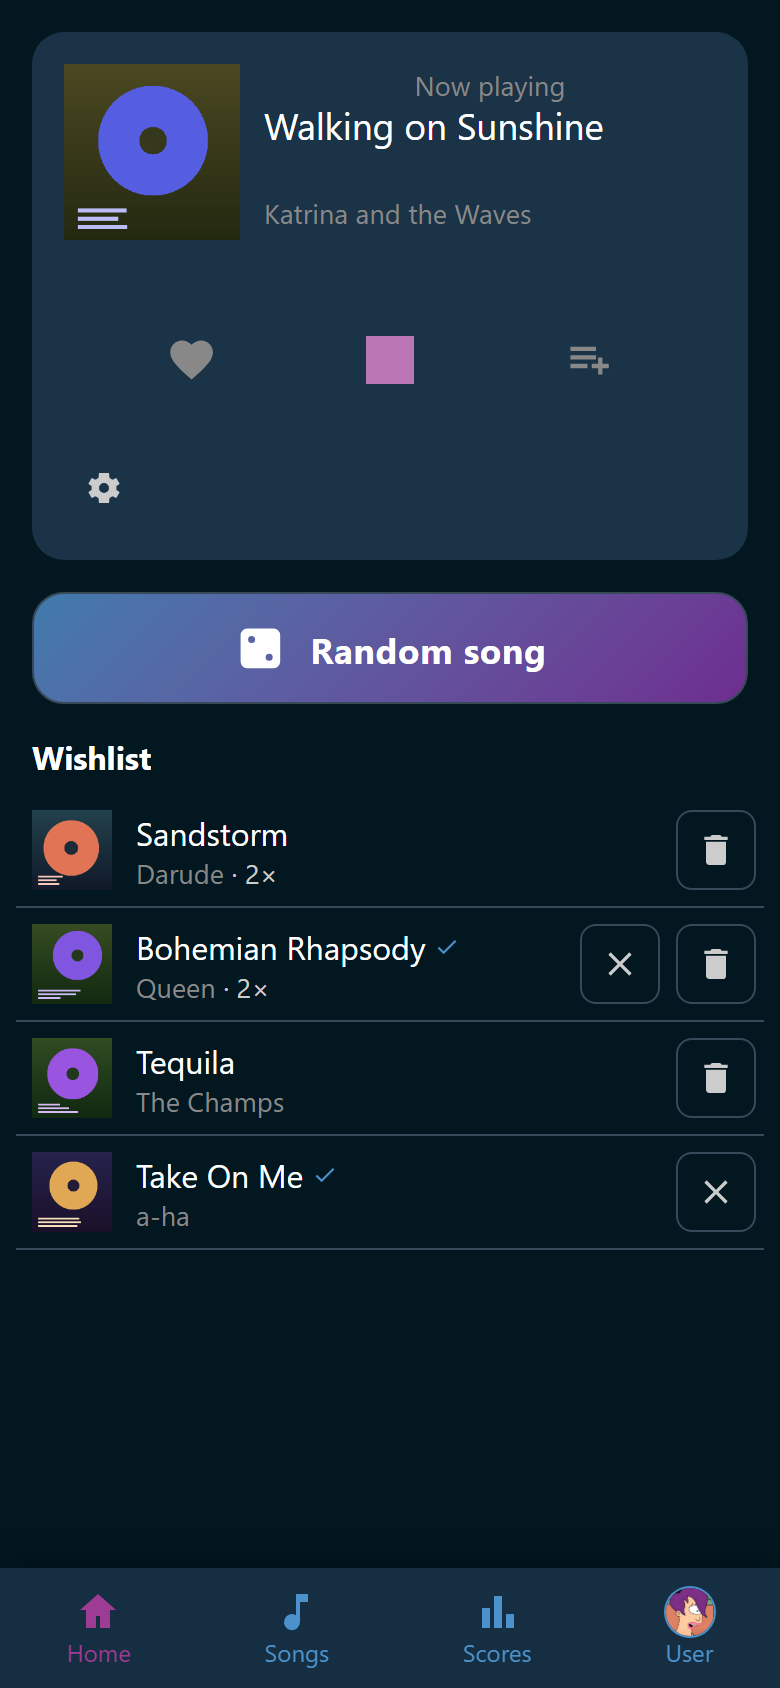
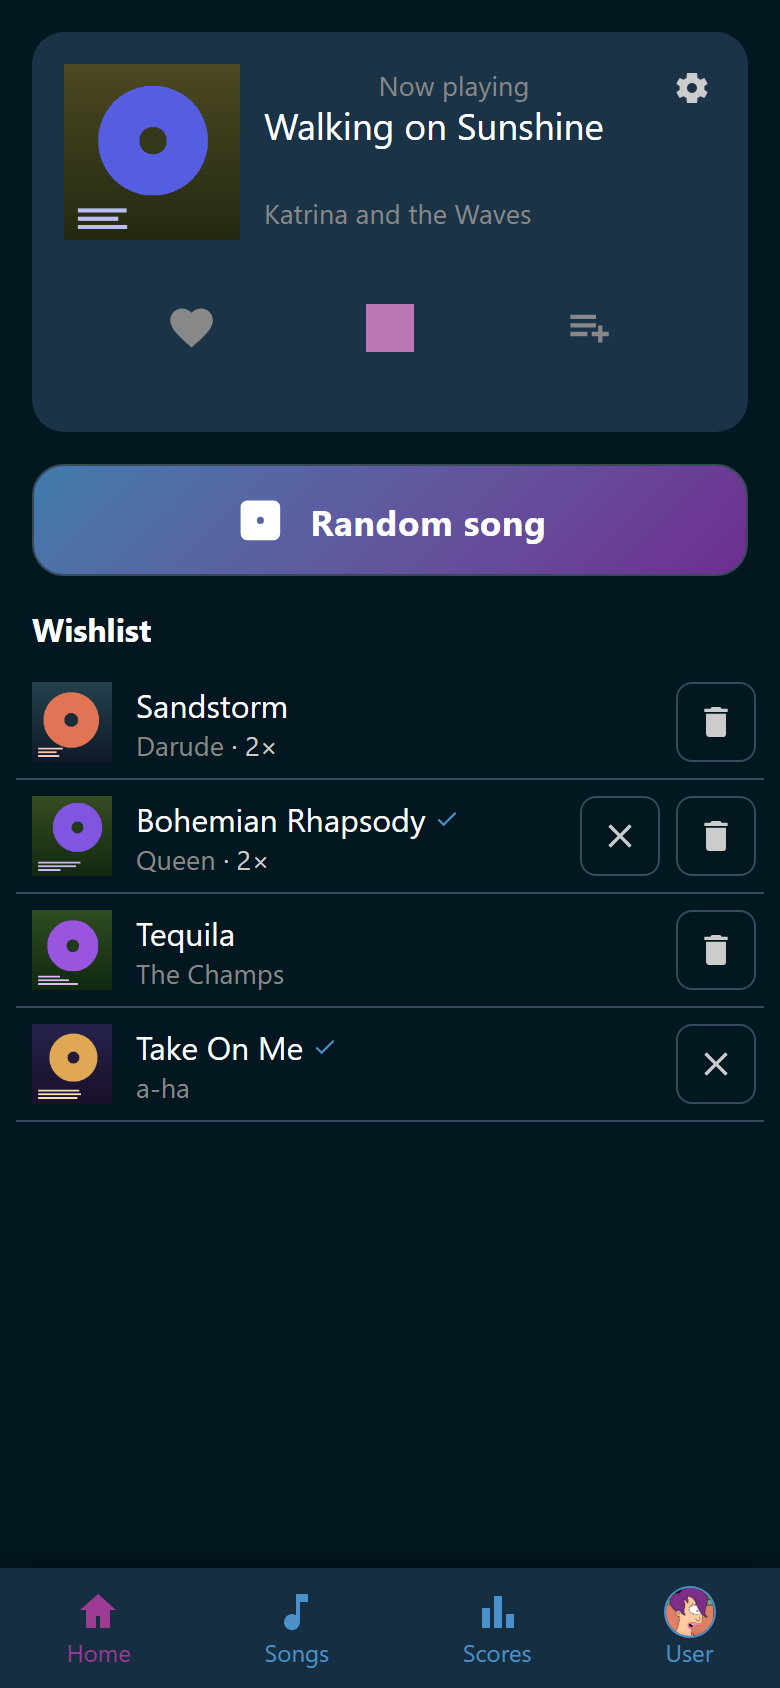
fix(frontend): the player's row keeps its touch sizes at 360px
The row's controls shrank to 38px under the slider at 360px, below the 40px
floor. The marks keep their 48px, the two transport glyphs take the 40px floor,
and the slider keeps about 78px at 360 and 108px at 390. The gear clearance
moves off the whole head onto its first text row, so the progress bar runs to
the edge. Both Home screenshots recaptured for the redesigned tile.

diff --git a/frontend/src/components/HomeStage.css b/frontend/src/components/HomeStage.css
@@ -88,13 +88,18 @@
    up to the art's own 88px in both modes: over a sing an eyebrow, two title
    lines and the artist; for the background song two title lines, the artist
    and the bar. Flex rather than a grid the art spans, because a spanned grid
-   hands the art's height to the rows and spreads the text down the tile. The
-   right padding keeps the first text row clear of the gear. */
+   hands the art's height to the rows and spreads the text down the tile. */
 .home-stage-head {
   display: flex;
   align-items: flex-start;
   gap: 12px;
-  padding-right: 40px;
+}
+
+/* The first text row keeps clear of the gear — only where there is one, and
+   only that row: the bar under it runs to the tile's edge. */
+.home-stage:has(.home-stage-gear) .home-stage-eyebrow,
+.home-stage:has(.home-stage-gear) .home-stage-title-tall {
+  padding-right: 36px;
 }
 
 .home-stage-text {
@@ -255,8 +260,17 @@
   gap: 4px;
 }
 
+/* Nothing in the row may shrink under a finger: the marks keep their 48px and
+   the two transport glyphs take §1.10's 40px floor, which at 360px is what
+   leaves the slider a usable length. */
+.home-stage-transport .song-control {
+  flex: 0 0 auto;
+}
+
 .home-stage-transport .song-control-transport {
-  font-size: 1.5em;
+  width: 40px;
+  height: 40px;
+  font-size: 1.4em;
 }
 
 .home-stage-transport .song-control-transport:hover:enabled {
@@ -273,7 +287,6 @@
   align-items: center;
   gap: 8px;
   min-width: 0;
-  padding: 0 4px;
 }
 
 .home-stage-volume-glyph {

diff --git a/docs/user/party/music.md b/docs/user/party/music.md
@@ -69,8 +69,8 @@ against it.
 
 ## When there is no sound
 
-If the player says **No host screen is open**, no host screen is open. Open one
-on the TV and the music picks up where it stopped.
+If the player says **No host screen is open**, open one on the TV. The music picks
+up where it stopped.
 
 Closing the host screen pauses the room, it does not lose the song. Opening it
 again starts the same song from where it was.
